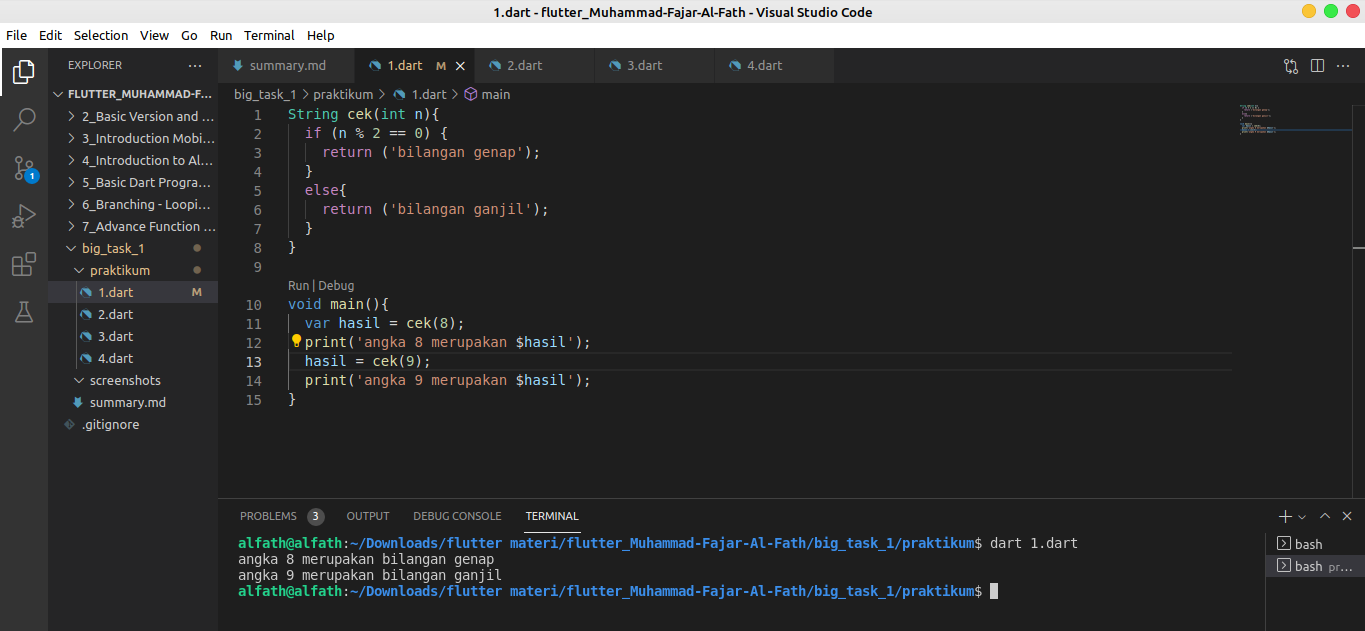
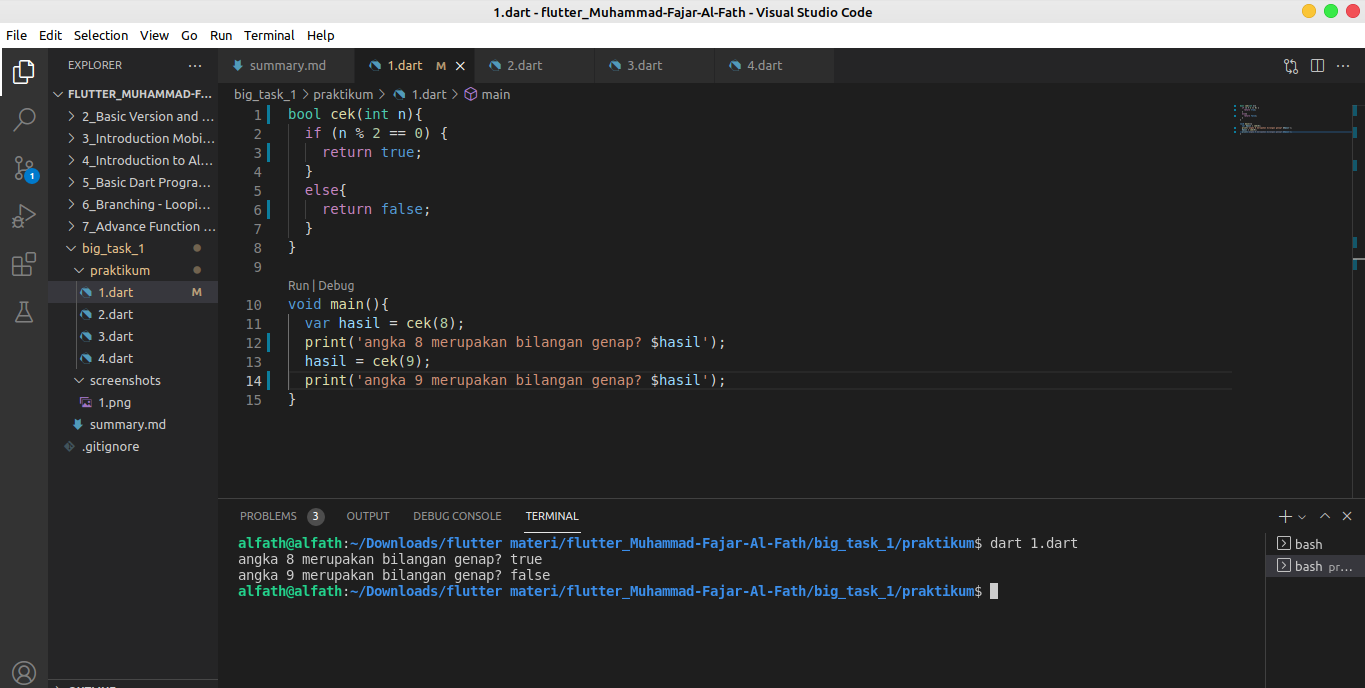
revisi soal no 1 bagian return value

diff --git a/big_task_1/praktikum/1.dart b/big_task_1/praktikum/1.dart
@@ -1,15 +1,15 @@
-String cek(int n){
+bool cek(int n){
   if (n % 2 == 0) {
-    return ('bilangan genap');
+    return true;
   }
   else{
-    return ('bilangan ganjil');
+    return false;
   }
 }
 
 void main(){
   var hasil = cek(8);
-  print('angka 8 merupakan $hasil');
+  print('angka 8 merupakan bilangan genap? $hasil');
   hasil = cek(9);
-  print('angka 9 merupakan $hasil');
+  print('angka 9 merupakan bilangan genap? $hasil');
 }
